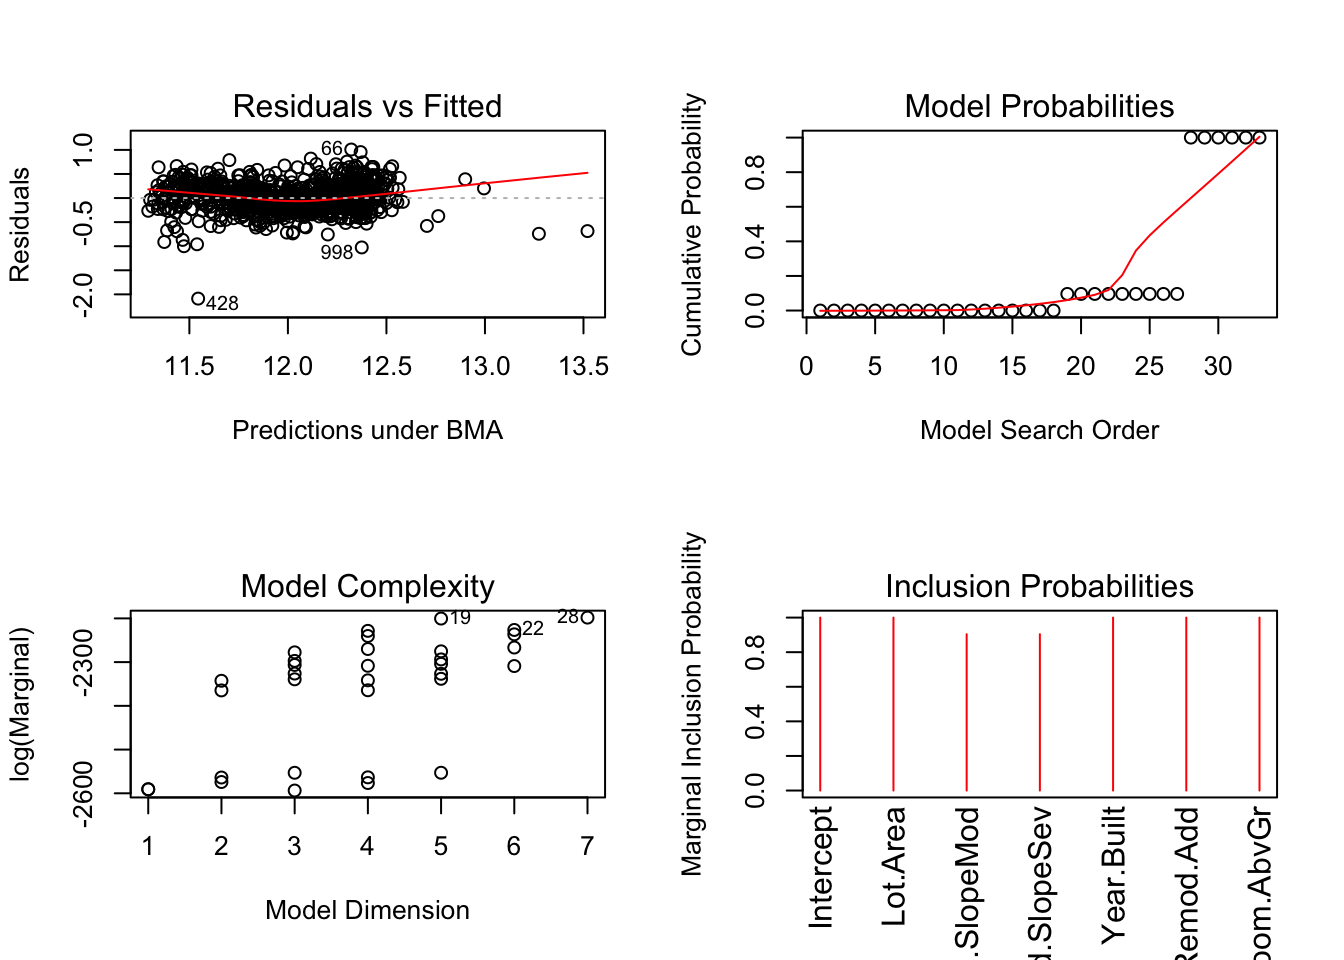
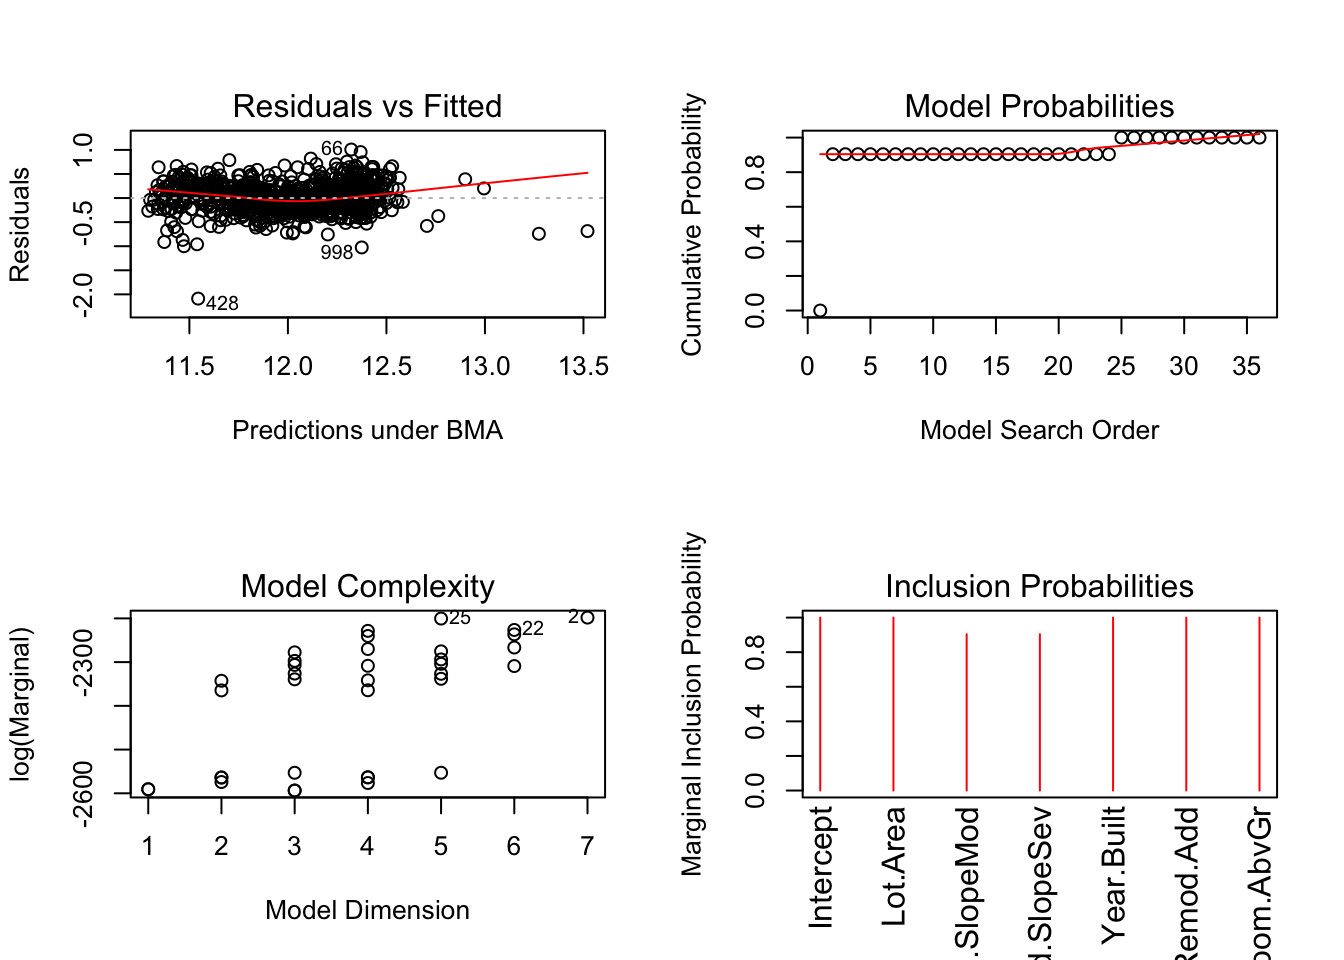
nc

diff --git a/docs/index.html b/docs/index.html
@@ -297,8 +297,8 @@ $(document).ready(function () {
 </div>
 
 
-<p>On this site there are some exercise performed during the completion of the course Statistics with R Specialization by University of Duke.</p>
-<p>On the assignment, you will need to imagine that you are a statistical consultant who has recently been hired by a real estate investment firm based in Ames, Iowa. They have had an intern collect and collate all of the recent house sales in Ames and have put together a large spreadsheet that contains the sale price of each house along with many of its physical features. Your employers want you to take this data and develop a model to predict the selling price of a given home. They hope to use this information to help assess whether the asking price of a house is higher or lower than the true value of the house. If the home is undervalued, it may be a good investment for the firm.</p>
+<p>On this site, there are exercises performed during the completion of the course Statistics with R Specialization by University of Duke.</p>
+<p>You will need to imagine that you are a statistical consultant who has recently been hired by a real estate investment firm based in Ames, Iowa. They have had an intern collect and collate all of the recent house sales in Ames and have put together a large spreadsheet that contains the sale price of each house along with many of its physical features. Your employers want you to take this data and develop a model to predict the selling price of a given home. They hope to use this information to help assess whether the asking price of a house is higher or lower than the true value of the house. If the home is undervalued, it may be a good investment for the firm.</p>
 
 
 

diff --git a/docs/EDA_ames.html b/docs/EDA_ames.html
@@ -461,7 +461,7 @@ ames_coef</code></pre>
 ## 
 ##  Using  BMA 
 ## 
-##  Based on the top  33 models 
+##  Based on the top  36 models 
 ##                 post mean   post SD     post p(B != 0)
 ## Intercept        1.202e+01   8.831e-03   1.000e+00    
 ## Lot.Area         1.013e-05   1.184e-06   1.000e+00    
@@ -472,13 +472,13 @@ ames_coef</code></pre>
 ## Bedroom.AbvGr    8.688e-02   1.078e-02   1.000e+00</code></pre>
 <pre class="r"><code>confint(ames_coef)</code></pre>
 <pre><code>##                         2.5%        97.5%          beta
-## Intercept       1.200145e+01 1.203603e+01  1.201847e+01
-## Lot.Area        7.730925e-06 1.236903e-05  1.012662e-05
-## Land.SlopeMod   0.000000e+00 2.191468e-01  1.251455e-01
-## Land.SlopeSev  -6.989198e-01 0.000000e+00 -4.128938e-01
-## Year.Built      5.274440e-03 6.760363e-03  6.046237e-03
-## Year.Remod.Add  5.739091e-03 7.876729e-03  6.788766e-03
-## Bedroom.AbvGr   6.617872e-02 1.083440e-01  8.687950e-02
+## Intercept       1.200141e+01 1.203554e+01  1.201847e+01
+## Lot.Area        7.832073e-06 1.237613e-05  1.012662e-05
+## Land.SlopeMod   0.000000e+00 2.193152e-01  1.251455e-01
+## Land.SlopeSev  -6.972596e-01 0.000000e+00 -4.128938e-01
+## Year.Built      5.308602e-03 6.767915e-03  6.046237e-03
+## Year.Remod.Add  5.720726e-03 7.840947e-03  6.788766e-03
+## Bedroom.AbvGr   6.603116e-02 1.076665e-01  8.687950e-02
 ## attr(,&quot;Probability&quot;)
 ## [1] 0.95
 ## attr(,&quot;class&quot;)
